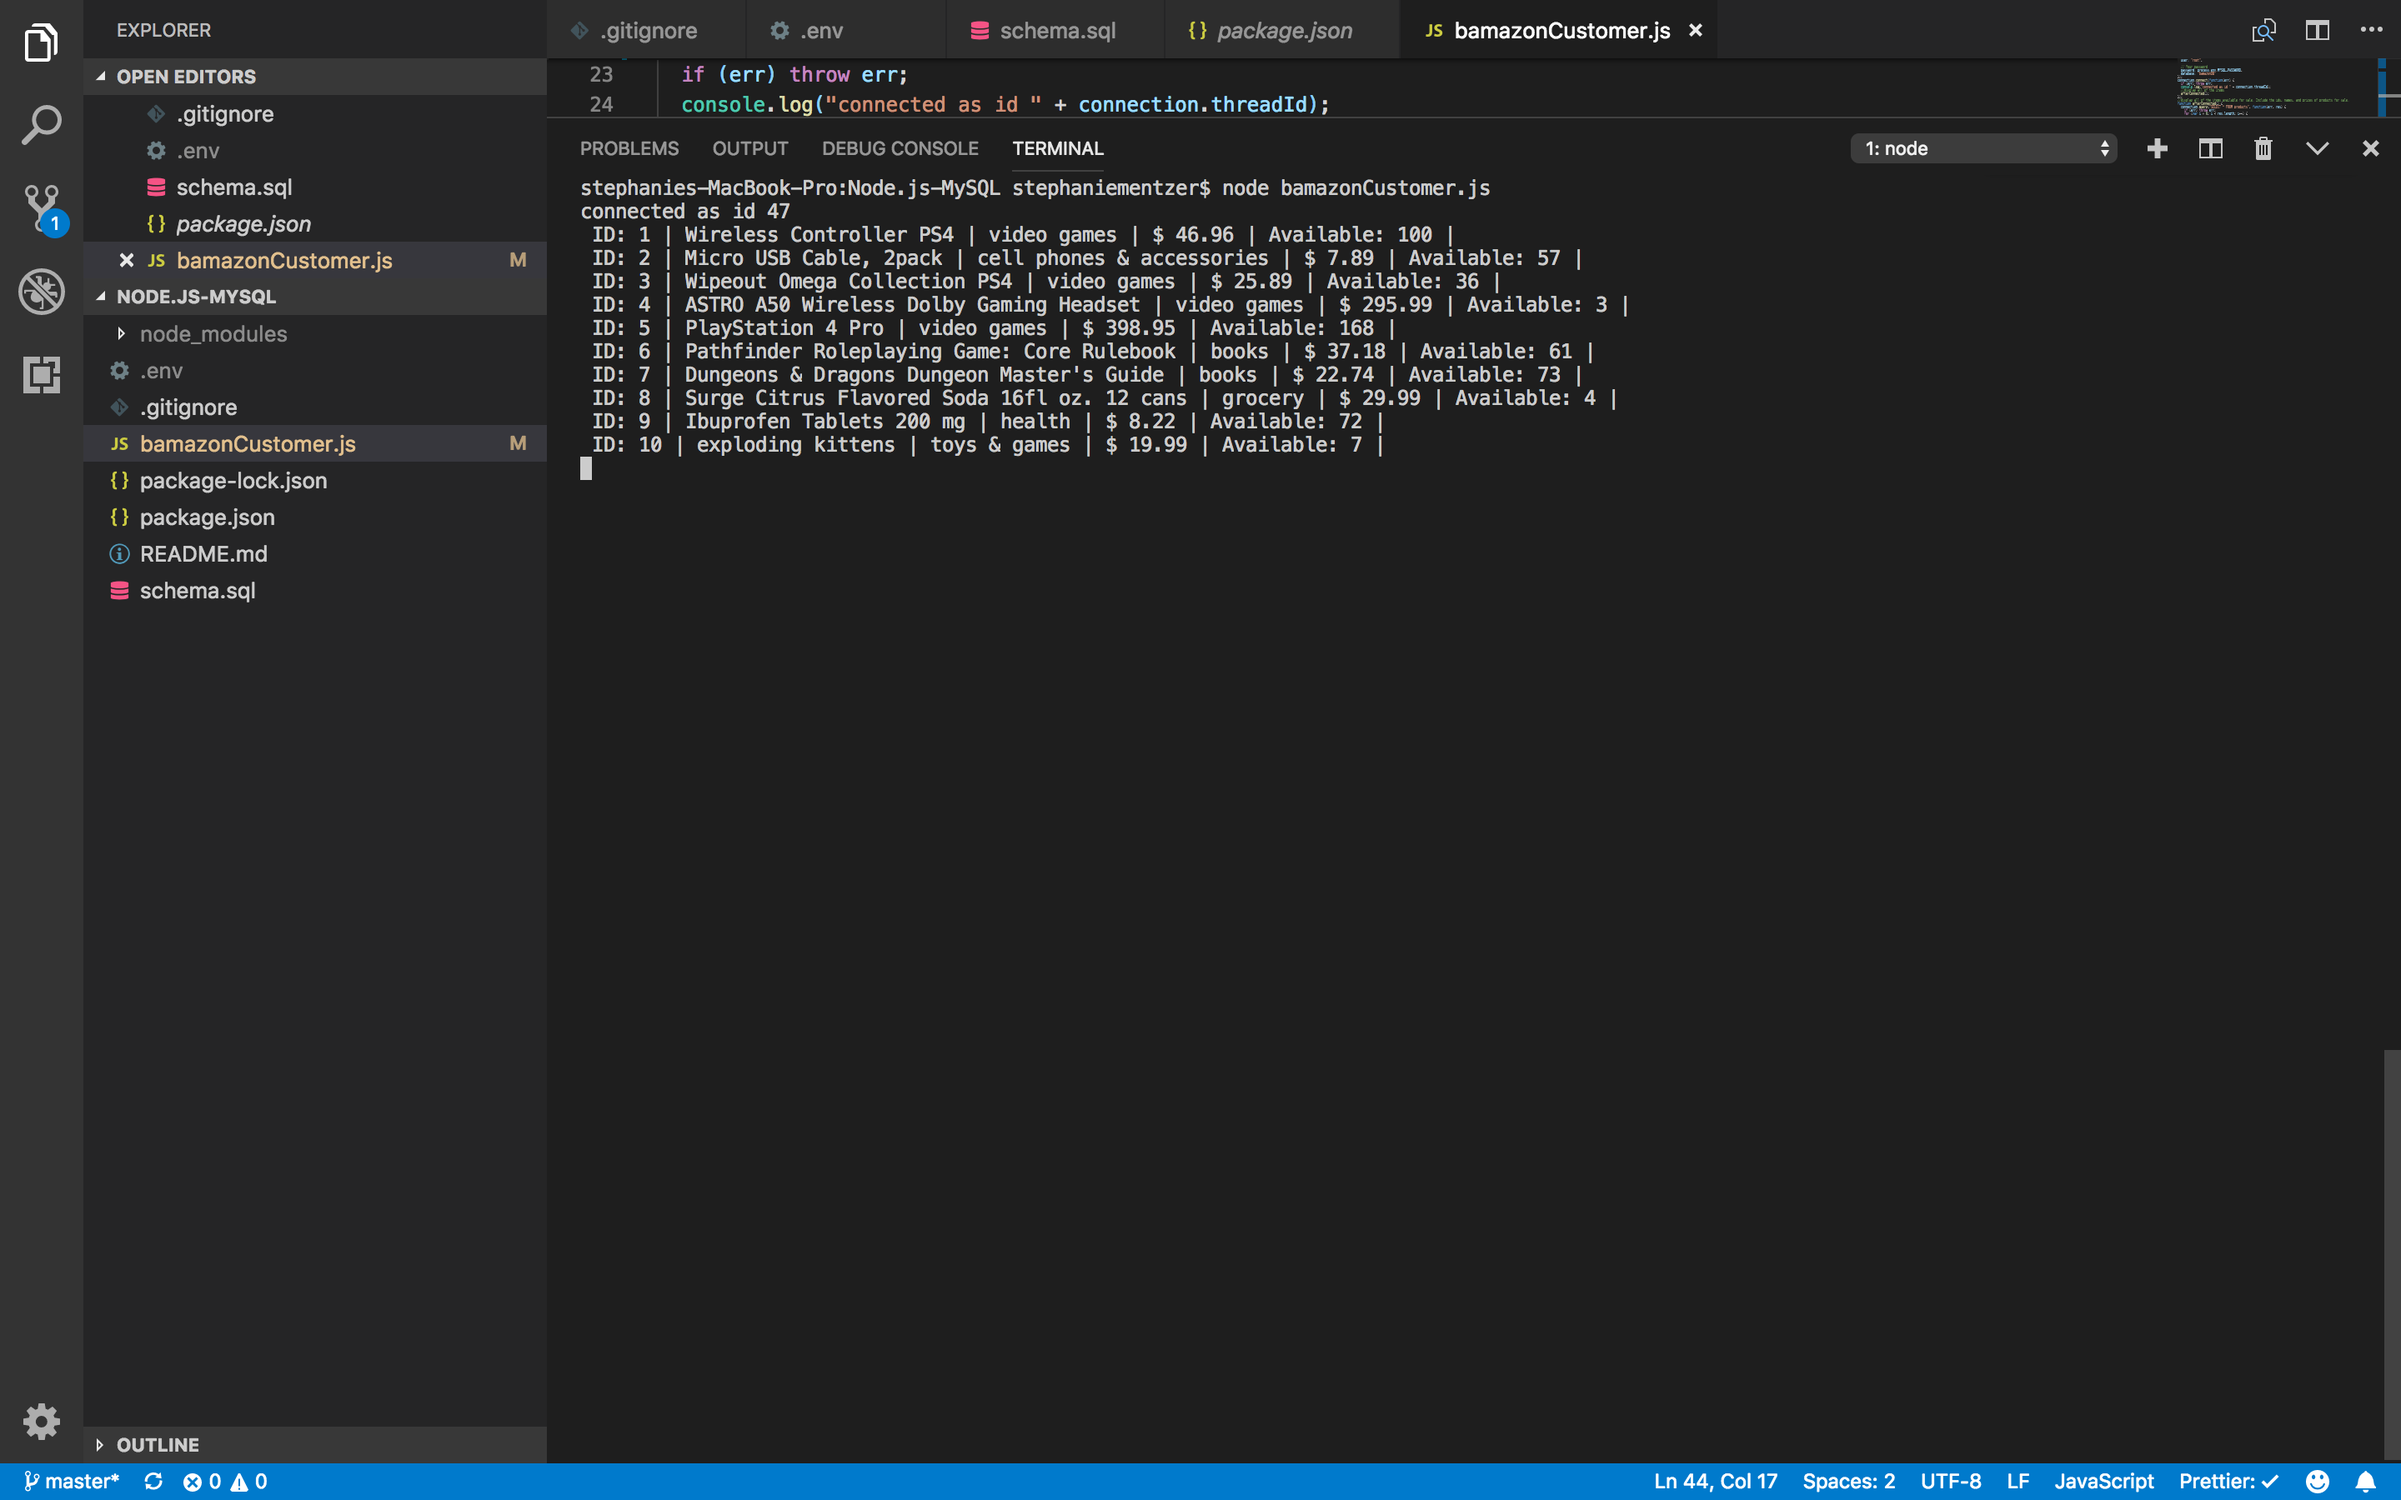
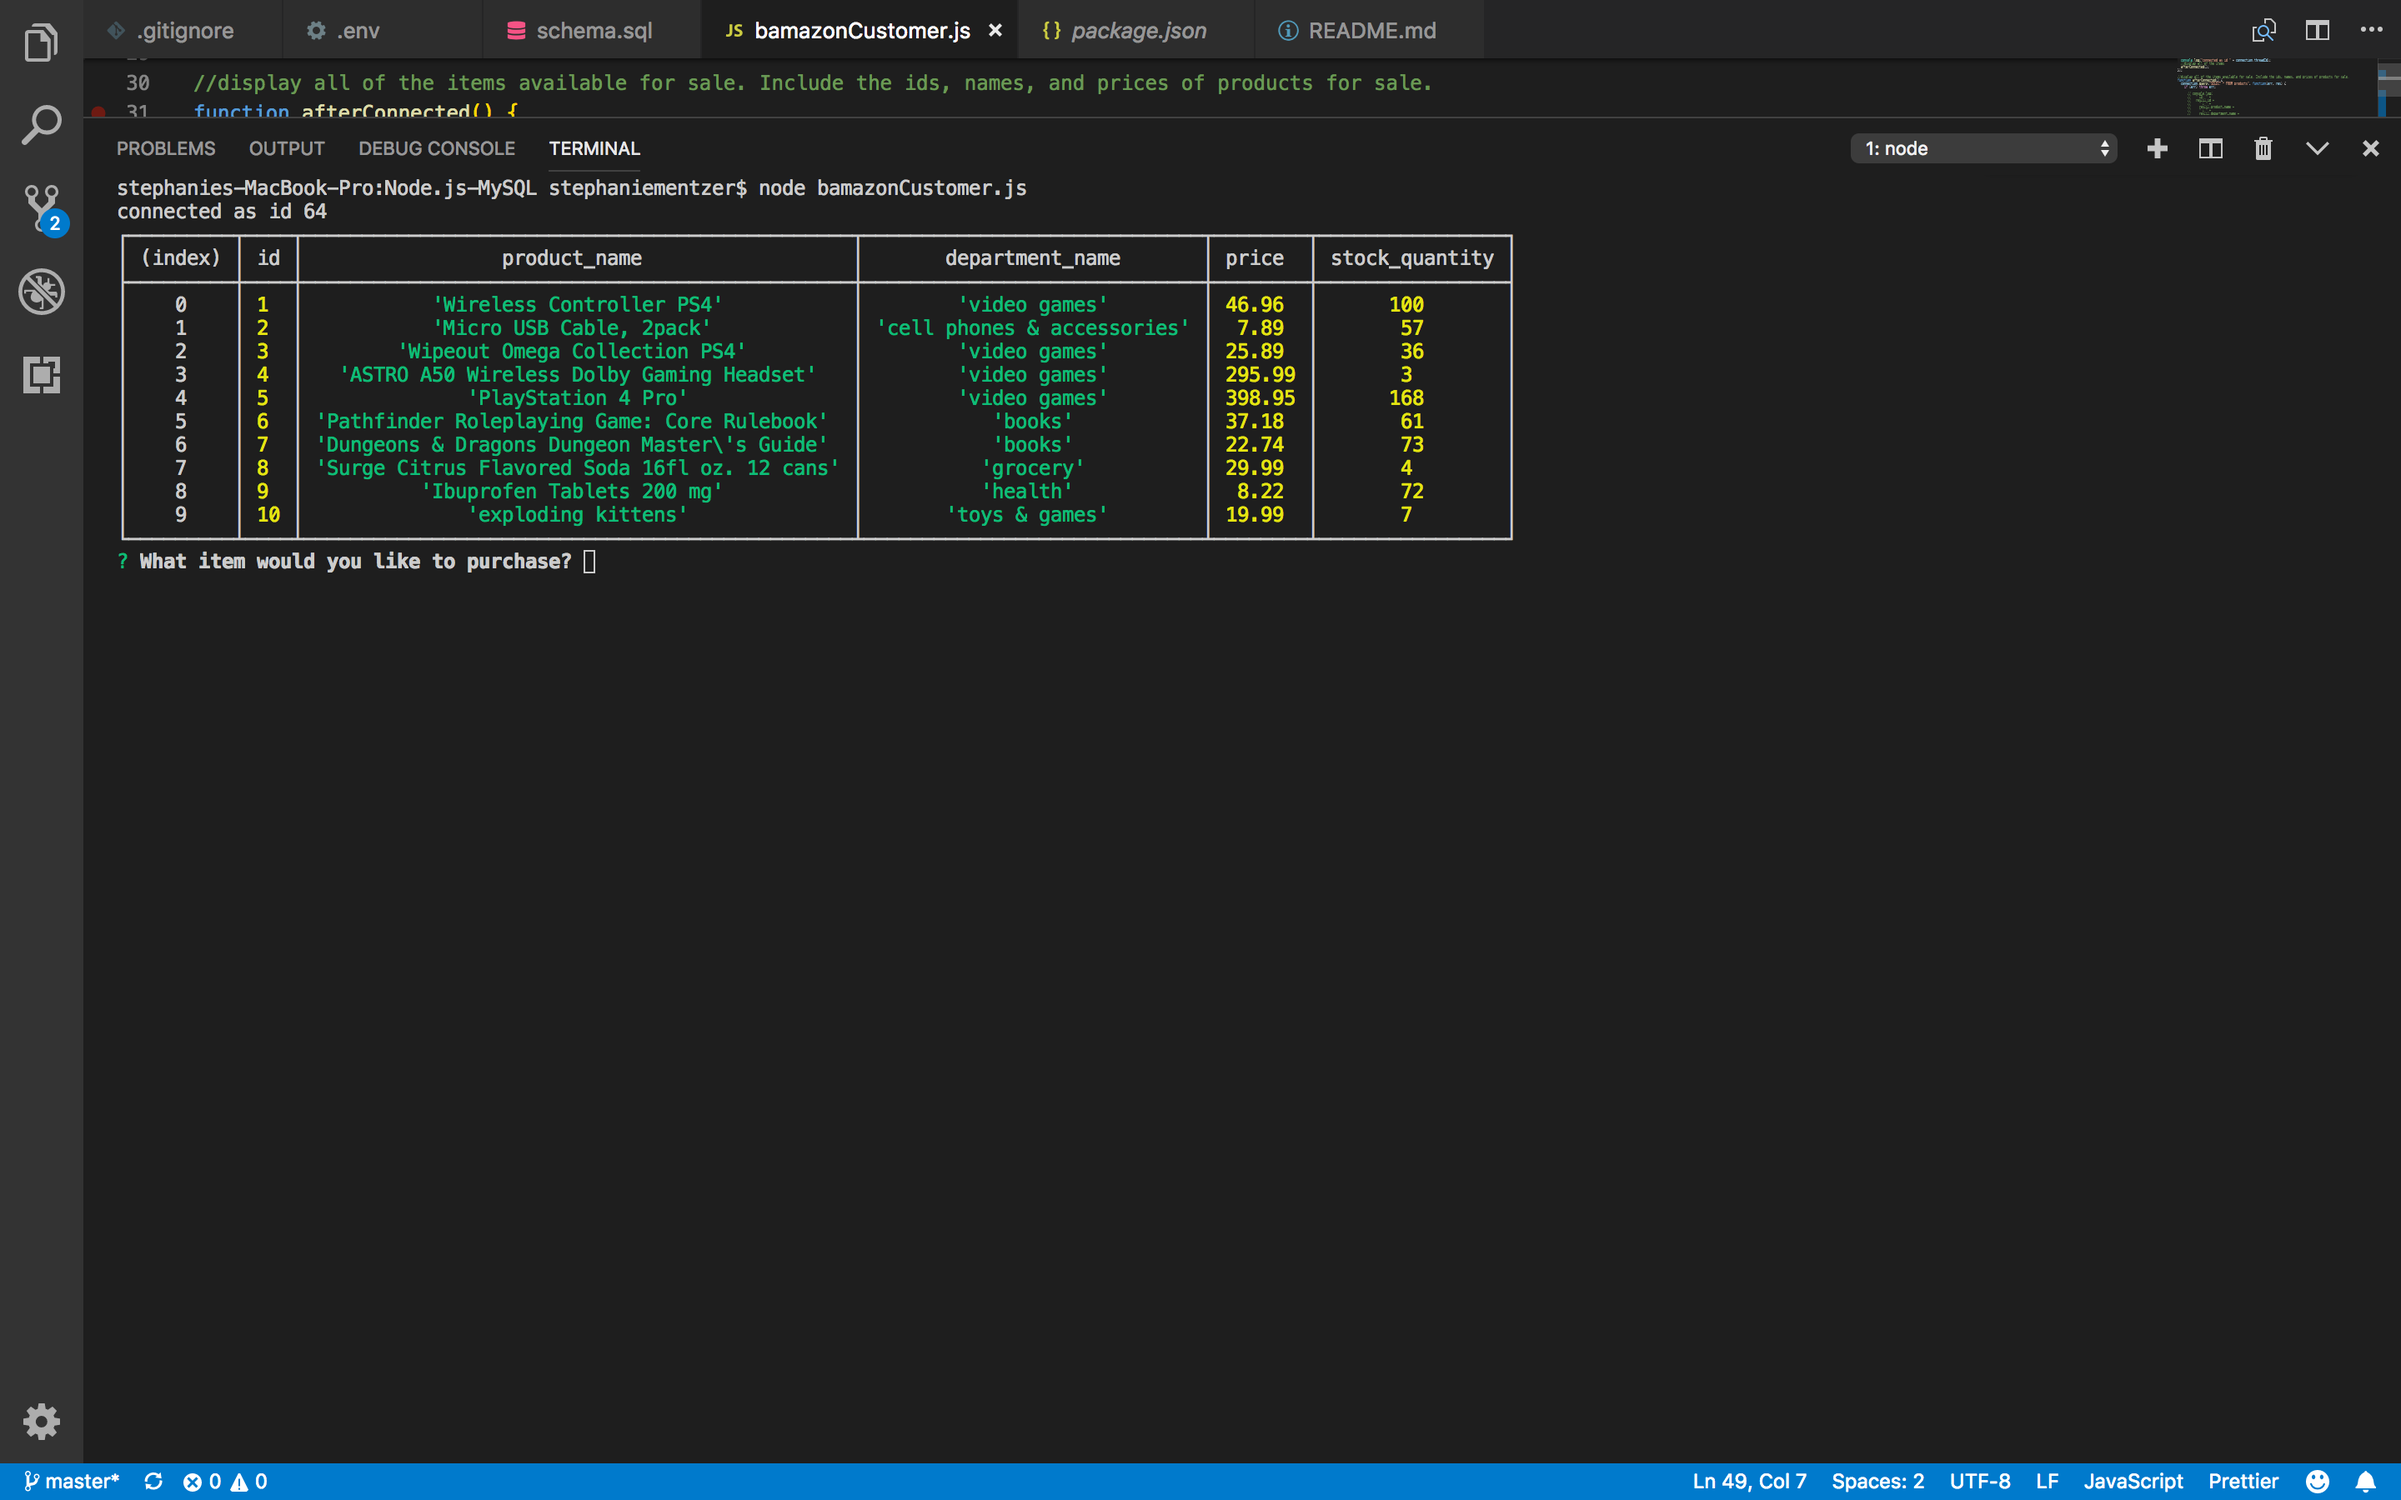
update added

diff --git a/bamazonCustomer.js b/bamazonCustomer.js
@@ -31,21 +31,24 @@ connection.connect(function(err) {
 function afterConnected() {
   connection.query("SELECT * FROM products", function(err, res) {
     if (err) throw err;
-    for (var i = 0; i < res.length; i++) {
-      console.log(
-        " ID: " +
-        res[i].id +
-          " | " +
-          res[i].product_name +
-          " | " +
-          res[i].department_name +
-          " | $ " +
-          res[i].price +
-          " | Available: " +
-          res[i].stock_quantity
-          + " | "
-      );
-    }
+   
+      // console.log(
+      //   " ID: " +
+      //   res[i].id +
+      //     " | " +
+      //     res[i].product_name +
+      //     " | " +
+      //     res[i].department_name +
+      //     " | $ " +
+      //     res[i].price +
+      //     " | Available: " +
+      //     res[i].stock_quantity
+      //     + " | "
+      // );
+
+
+      console.table(res)
+    
   
     dataArr = res;
     //run after display
@@ -82,27 +85,40 @@ function itemPurchase(){
       }
     }
  ]).then (function (answers) {
+   //Once the customer has placed the order, your application should check if your store has enough of the product to meet the customer's request.
   if (parseInt(answers.stock_quantity) > dataArr[answers.id - 1].stock_quantity) {
+    //If not, the app should log a phrase like Insufficient quantity!, and then prevent the order from going through.
     console.log("Insufficient Quantity! There are only " + dataArr[answers.id - 1].stock_quantity + " left in stock!")
-      ItemPurchase();
+      itemPurchase();
+  } else {
+    //However, if your store does have enough of the product, you should fulfill the customer's order.
+    //Once the update goes through, show the customer the total cost of their purchase.
+    console.log("Order Placed: " + (parseInt(answers.stock_quantity) * dataArr[answers.id - 1].price));
+    var newQuantity = (dataArr[answers.id - 1].stock_quantity) - (parseInt(answers.stock_quantity));
+    // console.log(newQuantity);
+    connection.query("UPDATE products SET stock_quantity = ? WHERE id = ?", [newQuantity, answers.id], function(err){
+      if (err) throw err;
+      newOrder();
+    });
   }
-
-  
  })
-
-
-
-
-
-
-
-
-
-
-
-
 };
 
+function newOrder() {
+  inquirer.prompt ({
+    name: "yn",
+    type: "list",
+    message: "Would you like to place another order? ",
+    choices: ["YES", "NO"]
+  }).then (function(answer){
+    if( answer.yn === "YES") {
+      afterConnected();
+    } else connection.end();
+  }).catch(function (err) {
+    console.log(err);
+  })
+
+}
 
 
 
@@ -130,12 +146,14 @@ function itemPurchase(){
 
 
 
-//Once the customer has placed the order, your application should check if your store has enough of the product to meet the customer's request.
-//If not, the app should log a phrase like Insufficient quantity!, and then prevent the order from going through.
 
-//However, if your store does have enough of the product, you should fulfill the customer's order.
+
+
+
+
+
 //This means updating the SQL database to reflect the remaining quantity.
-//Once the update goes through, show the customer the total cost of their purchase.
+
 
 
 
